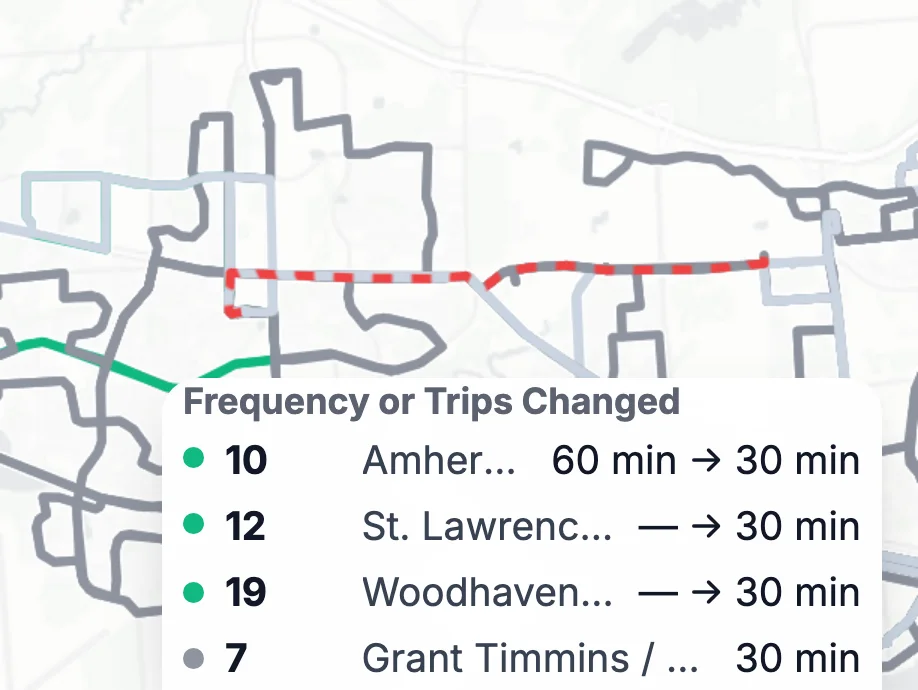
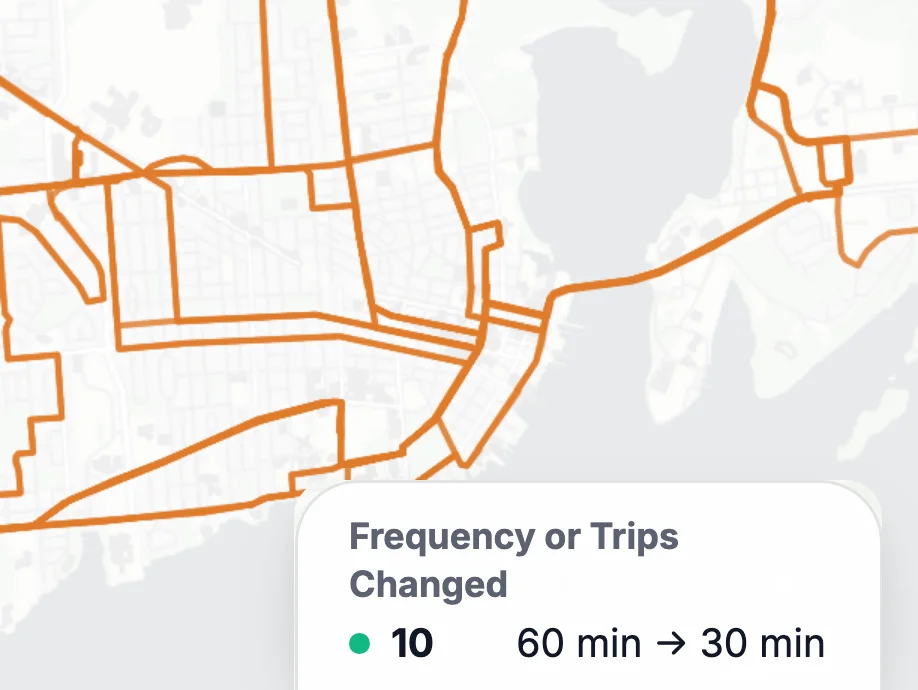
Planners page: two sentences per feature card, and a Request a demo picture made like the others (CIV-1767)
Ryan, 2026-11-16, after reviewing /planners: "Looks good except the
.../card-demo-desktop-light.webp image" and "the amout of text in each card
is inconsistent too".

Every feature card, Request a demo included, now has two sentences of about
the same length, trimmed and merged from the approved text (no new claims);
the Live placeholder (CIV-1705) is unchanged. The Export card's bullets fold
into its two sentences.

The demo picture is now made by capture.mts like the other four: Kingston's
faded frequency map and Studio's changes list at the bottom right, at the
shared control width (196px), scale and two-row trim. At that width a route
name leaves no room for its change, so the shot drops the names and the
list's title row. CARDS=demo remakes only the demo pictures; STUDIO_URL
points at a dev server with the Studio page and its data.

Changed region(s): [[0.0, 0.0, 1.0, 1.0], [0.366, 0.7913, 1.0, 0.9739]]

diff --git a/src/PlannersPage.tsx b/src/PlannersPage.tsx
@@ -14,8 +14,9 @@ import FeatureCard from './components/FeatureCard';
 import RequestDemoCard from './components/RequestDemoCard';
 
 /**
- * "For Transit Planners" (CIV-1320). Titles are title case (DECISIONS.md, 2026-11-15); the rest is sentence case. Text is Ryan's OK'd draft, word for word ("wording is ok until i see the actual
- * built draft", 2026-11-06). Layout follows the About page: the wide column, the hero beside the map picture, and pale
+ * "For Transit Planners" (CIV-1320). Titles are title case (DECISIONS.md, 2026-11-15); the rest is sentence case. Text is Ryan's OK'd draft ("wording is ok until i see the actual built draft",
+ * 2026-11-06), trimmed to two sentences per feature card so every card carries about the same text (CIV-1767, waiting on
+ * Ryan's OK). Layout follows the About page: the wide column, the hero beside the map picture, and pale
  * frequency-colour tints for the feature cards.
  */
 
@@ -85,24 +86,16 @@ export default function PlannersPage() {
 
       <div className="grid gap-5 py-16 sm:py-20">
         <Feature title="See Frequency, Not Just Routes" color={color(0)} pictures={<CardPicture name="frequency" />}>
-          <p>Every route is coloured by its headway: every 10, 15, 20, 30 or 60 min, or less often. Pick a tier and Atlas shows only the routes that meet it, so a frequent network map takes one click. The tiers make it quick to check a network against your own service frequency standards.</p>
+          <p>Every route is coloured by its headway: every 10, 15, 20, 30 or 60 min, or less often. Pick a tier and Atlas shows only the routes that meet it, so a frequent network map, or a check against your own frequency standards, takes one click.</p>
         </Feature>
         <Feature title="See How Service Changes Over the Day and Week" color={color(1)} pictures={<CardPicture name="dayweek" />}>
-          <p>Frequency on a map is only half the story. Switch between weekday, Saturday and Sunday, then pick a time of day: AM peak, midday, PM peak, evening, late night or overnight (2 to 6 AM), so peak, off-peak and owl service each get their own map.</p>
-          <p>Weekday midday and Sunday evening are often very different networks. Atlas shows both, and Compare puts two of them side by side on desktop.</p>
-          <p>Open any route to see an hourly chart of its headways, which also shows its span of service.</p>
+          <p>Switch between weekday, Saturday and Sunday, then pick a time of day from AM peak to overnight, so peak, off-peak and owl service each get their own map. Compare puts two of them side by side on desktop, and any route opens an hourly chart of its headways and span of service.</p>
         </Feature>
         <Feature title="Every Agency in a Region, on One Map" color={color(2)} pictures={<CardPicture name="agency" />}>
-          <p>Riders don’t care which agency runs the bus. Atlas puts every agency it covers on the same map, so you can see where local, regional and intercity services meet, and where they don’t. Use the agency filter to focus on one operator, or leave it on All to see the whole region.</p>
-          <p>This helps you spot weak connections between agencies: a hub where one agency runs {headwayEvery(10)} and the other once an hour, or a town where an intercity route stops but no local bus runs in the evening.</p>
-          <p>Each agency also has its own page with a summary of its routes and the agencies nearby.</p>
+          <p>Atlas puts every agency it covers on the same map, so you can spot weak connections, like a hub where one agency runs {headwayEvery(10)} and the other once an hour. Use the agency filter to focus on one operator, or leave it on All to see the whole region.</p>
         </Feature>
         <Feature title="A Map Instead of a Long Report" color={color(3)} pictures={<CardPicture name="export" />}>
-          <p>Existing-conditions work often ends up as a long report with a few static maps. Atlas gives you a map people can explore.</p>
-          <ul className="list-disc space-y-2 pl-5">
-            <li><strong className={STRONG}>Share links</strong> keep the view: the place, frequency tier, day, time of day, agencies and any open route or stop.</li>
-            <li><strong className={STRONG}>Map images</strong> export with a source line, ready for a slide deck or a report.</li>
-          </ul>
+          <p>Existing-conditions work often ends up as a long report with a few static maps, but Atlas gives you a map people can explore. Share links keep the place, frequency tier, day, time of day, agencies and any open route or stop, and map images export with a source line, ready for a slide deck or a report.</p>
         </Feature>
         {/* CIV-1705: the Live card. No picture yet; its text is a placeholder until Ryan gives the words. */}
         <Feature title={titleCase(LIVE_VEHICLES_TITLE)} color={color(4)} pictures={null}>

diff --git a/src/content/noticeCopy.ts b/src/content/noticeCopy.ts
@@ -214,8 +214,9 @@ export const SHARED_STRETCH_LABEL = 'Shared stretch';
 export const FREQUENCY_LABEL = 'Frequency';
 // The button at the end of the For Transit Planners page that emails us (CIV-1706); also the email's subject.
 export const REQUEST_DEMO_LABEL = 'Request a demo';
-// The Request a demo card's sentence (CIV-1706). Ryan picked option 1 on 2026-11-16.
-export const REQUEST_DEMO_TEXT = 'See your own agency’s schedule changes, where your routes lose time, and how many buses a frequency needs.';
+// The Request a demo card's text (CIV-1706). Ryan picked option 1 on 2026-11-16; split into two sentences so it matches the
+// other feature cards (CIV-1767, waiting on Ryan's OK).
+export const REQUEST_DEMO_TEXT = 'A demo uses your own agency’s schedules to show what changed and where your routes lose time. It also shows how many buses a frequency needs.';
 /**
  * Every search box's hint, in one place (CIV-1569): "Find " + what the box finds + "…" ("Find routes…", "Find an
  * agency…", "Find a MARTA route…"). Search box hints start with "Find" (Ryan, 2026-11-14); the "…" is from CIV-1160

diff --git a/src/components/RequestDemoCard.tsx b/src/components/RequestDemoCard.tsx
@@ -9,8 +9,9 @@ const pic = (name: string) => `/assets/planners/${name}`;
  * The Request a demo card (CIV-1706; Ryan, 2026-11-16: "no i meant like a feature card", and "we could refactor the demo
  * card and have it on other pages too potentially"). One card for every page that asks for a demo: the same feature
  * card, its words from noticeCopy, and the button where the other cards put their link. Its picture is the local
- * Studio page for Kingston (CIV-1680) in the CIV-1701 card-picture layout: a faded real map with the app's own panel
- * at the bottom right, 4:3, with a smaller version for phones and a light and a dark one.
+ * Studio page for Kingston (CIV-1680) in the CIV-1701 card-picture layout, made by scripts/planner-pictures/capture.mts
+ * like the other cards' (CIV-1767): Kingston's faded frequency map with Studio's changes list at the bottom right, at the
+ * same width and scale as the other cards' controls, 4:3, with a smaller version for phones and a light and a dark one.
  */
 export default function RequestDemoCard({ color }: { color: string }) {
   return (

diff --git a/src/__tests__/PlannersPage.test.tsx b/src/__tests__/PlannersPage.test.tsx
@@ -24,7 +24,7 @@ describe('For Transit Planners page (CIV-1320)', () => {
     const phone = [...container.querySelectorAll('source')].map(s => s.getAttribute('srcset'));
     for (const theme of ['light', 'dark']) {
       expect(srcs).toContain(`/assets/planners/hero-${theme}.webp`);
-      for (const card of ['frequency', 'dayweek', 'agency', 'export']) {
+      for (const card of ['frequency', 'dayweek', 'agency', 'export', 'demo']) {
         expect(srcs).toContain(`/assets/planners/card-${card}-desktop-${theme}.webp`);
         expect(phone).toContain(`/assets/planners/card-${card}-phone-${theme}.webp`);
       }
